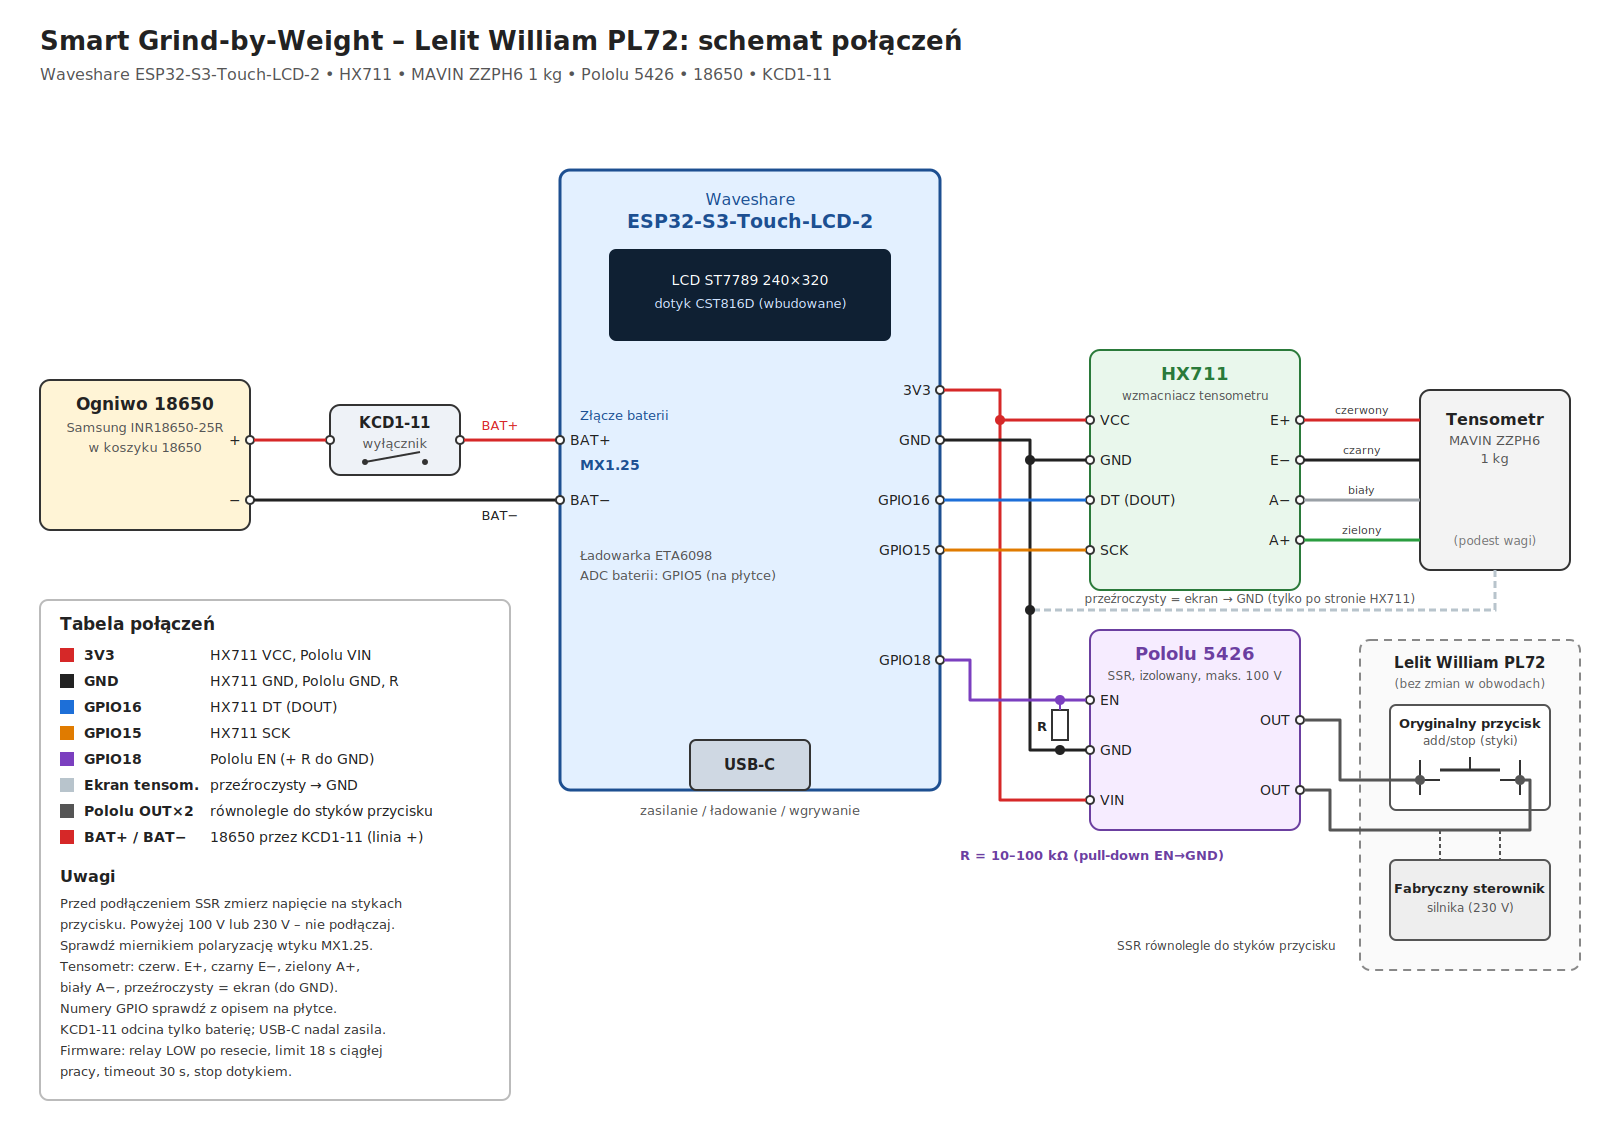
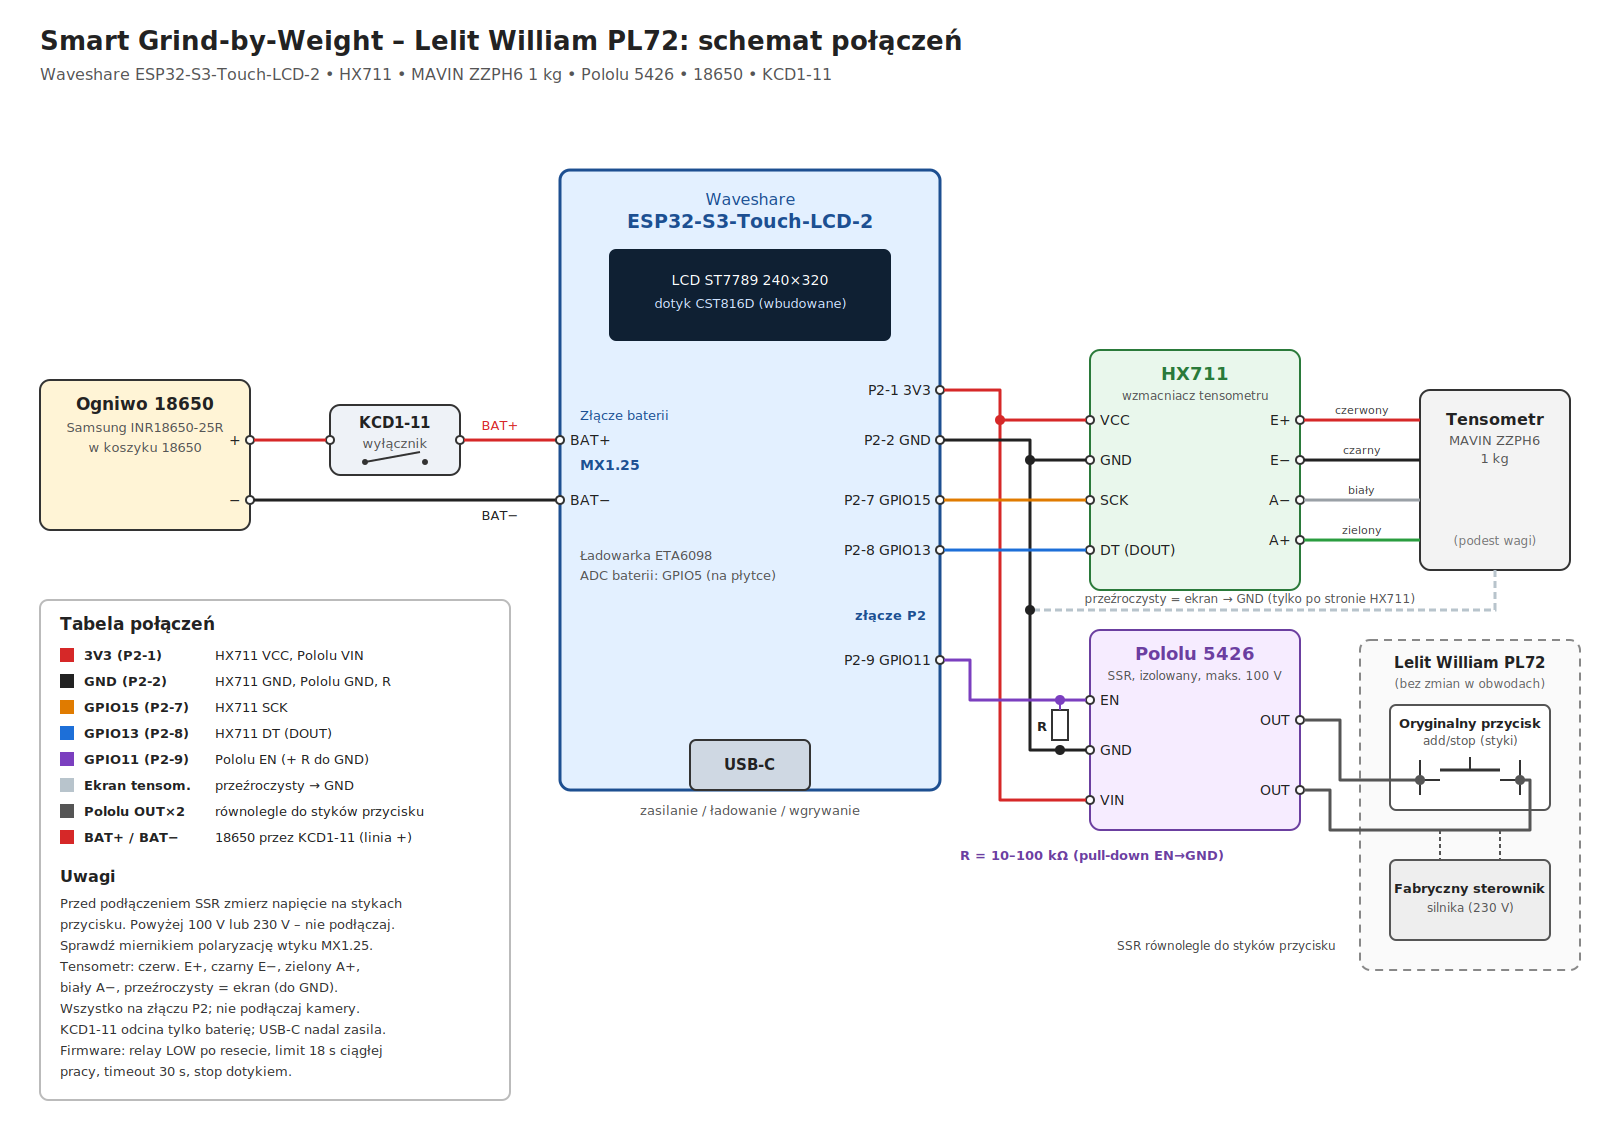
LCD2: move HX711 and SSR to header P2 (SCK 15, DOUT 13, EN 11)

diff --git a/src/config/hardware.h b/src/config/hardware.h
@@ -49,17 +49,22 @@
 
 // Load Cell ADC Pins
 #if defined(BOARD_WAVESHARE_ESP32S3_TOUCH_LCD_2)
-// GPIO2/3 are camera data lines on this board; use free header pins instead.
-// Change these to match your wiring if needed (avoid strapping pins 0, 3, 45, 46).
-#define HW_LOADCELL_DOUT_PIN 16                                                // HX711 DOUT
-#define HW_LOADCELL_SCK_PIN 15                                                 // HX711 PD_SCK
+// All external signals sit on header P2 (pin 1 3V3, 2 GND, 7 IO15, 8 IO13, 9 IO11),
+// per Waveshare schematic ESP32-S3-Touch-LCD-2_V2.pdf. These are camera data lines,
+// free while no camera is plugged in. Avoid strapping pins 0, 3, 45, 46 and 47/48 (touch I2C).
+#define HW_LOADCELL_DOUT_PIN 13                                                // HX711 DOUT  (P2-8)
+#define HW_LOADCELL_SCK_PIN 15                                                 // HX711 PD_SCK (P2-7)
 #else
 #define HW_LOADCELL_DOUT_PIN 3                                                 // HX711 data output pin
 #define HW_LOADCELL_SCK_PIN 2                                                  // HX711 serial clock pin
 #endif
 
 // Motor Control
+#if defined(BOARD_WAVESHARE_ESP32S3_TOUCH_LCD_2)
+#define HW_MOTOR_RELAY_PIN 11                                                  // Pololu 5426 EN (P2-9)
+#else
 #define HW_MOTOR_RELAY_PIN 18                                                  // GPIO pin for grinder motor control relay
+#endif
 // Hard safety limit for a single continuous motor activation, enforced inside the
 // Grinder driver by an independent esp_timer (in addition to GRIND_TIMEOUT_SEC).
 // Lelit William PL72: the add/stop button runs the motor at most ~19 s per hold,

diff --git a/docs/LELIT_PL72_LCD2.md b/docs/LELIT_PL72_LCD2.md
@@ -31,18 +31,19 @@ pio device monitor -b 115200
 | LCD MOSI / SCLK / CS / DC | 38 / 39 / 45 / 42 | wg demo Waveshare |
 | LCD podświetlenie | 1 | PWM (jasność w menu) |
 | Dotyk SDA / SCL | 48 / 47 | CST816D, adres 0x15, wspólna magistrala z IMU |
-| HX711 DOUT | 16 | linia kamery, wolna gdy kamera nie jest podłączona |
-| HX711 SCK | 15 | j.w. |
-| SSR (Pololu 5426 EN) | 18 | |
+| HX711 SCK | 15 | złącze P2, pin 7 (linia kamery, wolna bez kamery) |
+| HX711 DOUT | 13 | złącze P2, pin 8 |
+| SSR (Pololu 5426 EN) | 11 | złącze P2, pin 9 |
+| 3V3 / GND | – | złącze P2, piny 1 / 2 (drugi GND: pin 13) |
 | ADC baterii | 5 | dzielnik ×3 (na razie nieużywany w firmware) |
 
-**Przed lutowaniem porównaj GPIO 15, 16 i 18 z opisem złączy na płytce.** Jeśli wybierzesz inne,
+**Wszystkie sygnały są na jednym złączu P2** (schemat Waveshare ESP32-S3-Touch-LCD-2_V2). Przed lutowaniem porównaj z opisem na płytce. Nie podłączaj kamery – używa tych samych GPIO. Jeśli wybierzesz inne,
 zmień je w `hardware.h`. Unikaj pinów strapping 0, 3, 45, 46 i UART0 (43/44).
 
 ## Okablowanie
 
-- **HX711:** VCC → 3V3, GND → GND, DT → GPIO16, SCK → GPIO15. Tensometr MAVIN (5 przewodów): E+ czerwony, E− czarny, A+ zielony, A− biały, przeźroczysty = ekran → GND tylko po stronie HX711 (na tensometrze niepodłączony).
-- **Pololu 5426:** VIN → 3V3, GND → GND, EN → GPIO18. **Rezystor 10–100 kΩ między EN a GND** utrzymuje przekaźnik wyłączony podczas resetu i bootu. Wyjście (2 piny) → równolegle do styków przycisku add/stop.
+- **HX711:** VCC → 3V3, GND → GND, DT → GPIO13, SCK → GPIO15. Tensometr MAVIN (5 przewodów): E+ czerwony, E− czarny, A+ zielony, A− biały, przeźroczysty = ekran → GND tylko po stronie HX711 (na tensometrze niepodłączony).
+- **Pololu 5426:** VIN → 3V3, GND → GND, EN → GPIO11. **Rezystor 10–100 kΩ między EN a GND** utrzymuje przekaźnik wyłączony podczas resetu i bootu. Wyjście (2 piny) → równolegle do styków przycisku add/stop.
 - **Zasilanie:** 18650 → KCD1 → złącze MX1.25 baterii na płytce (ładowanie przez USB-C, układ ETA6098). **Sprawdź polaryzację złącza miernikiem.**
 
 ## Zabezpieczenia
